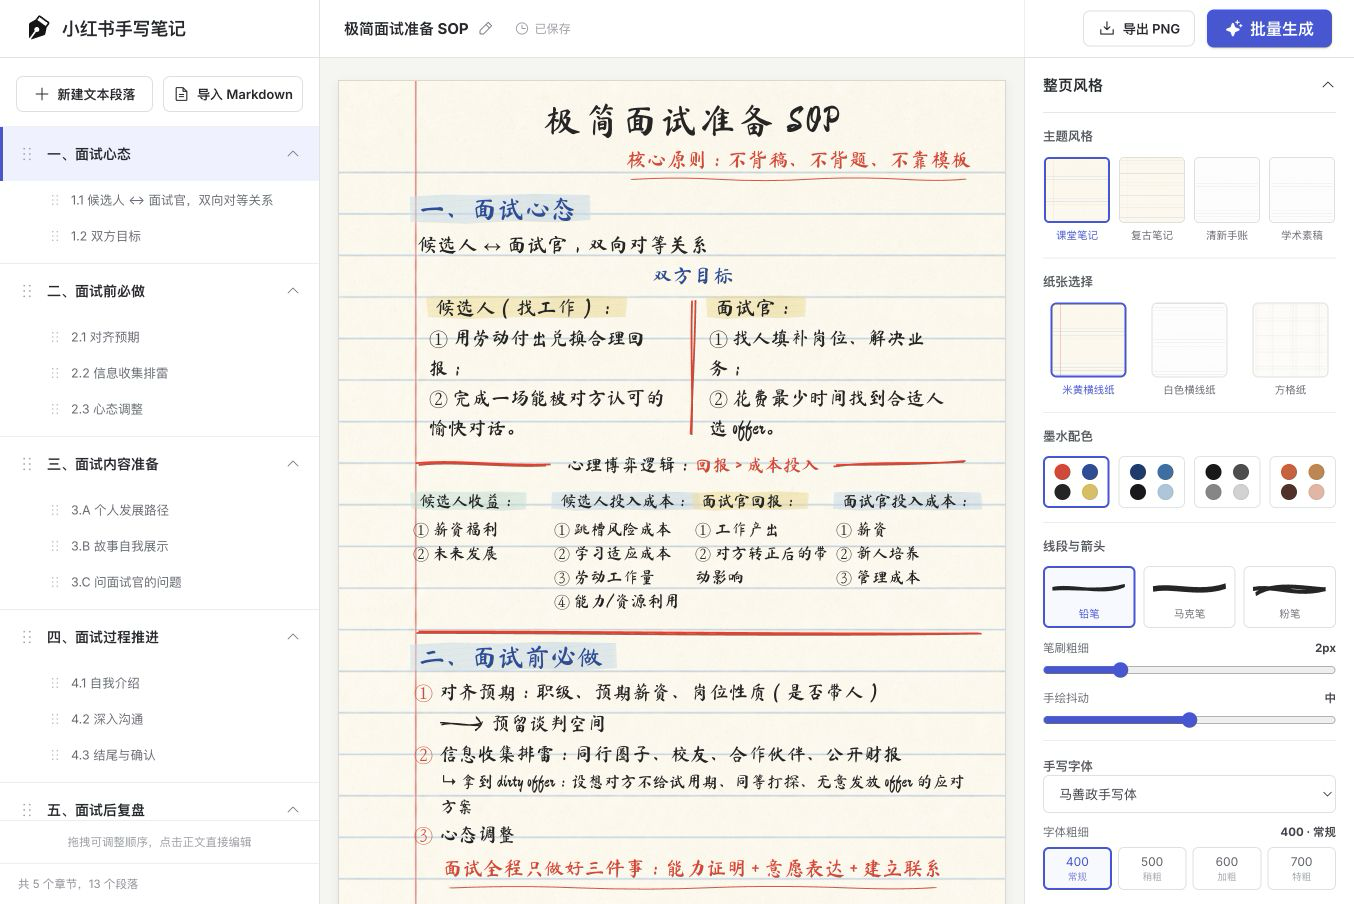
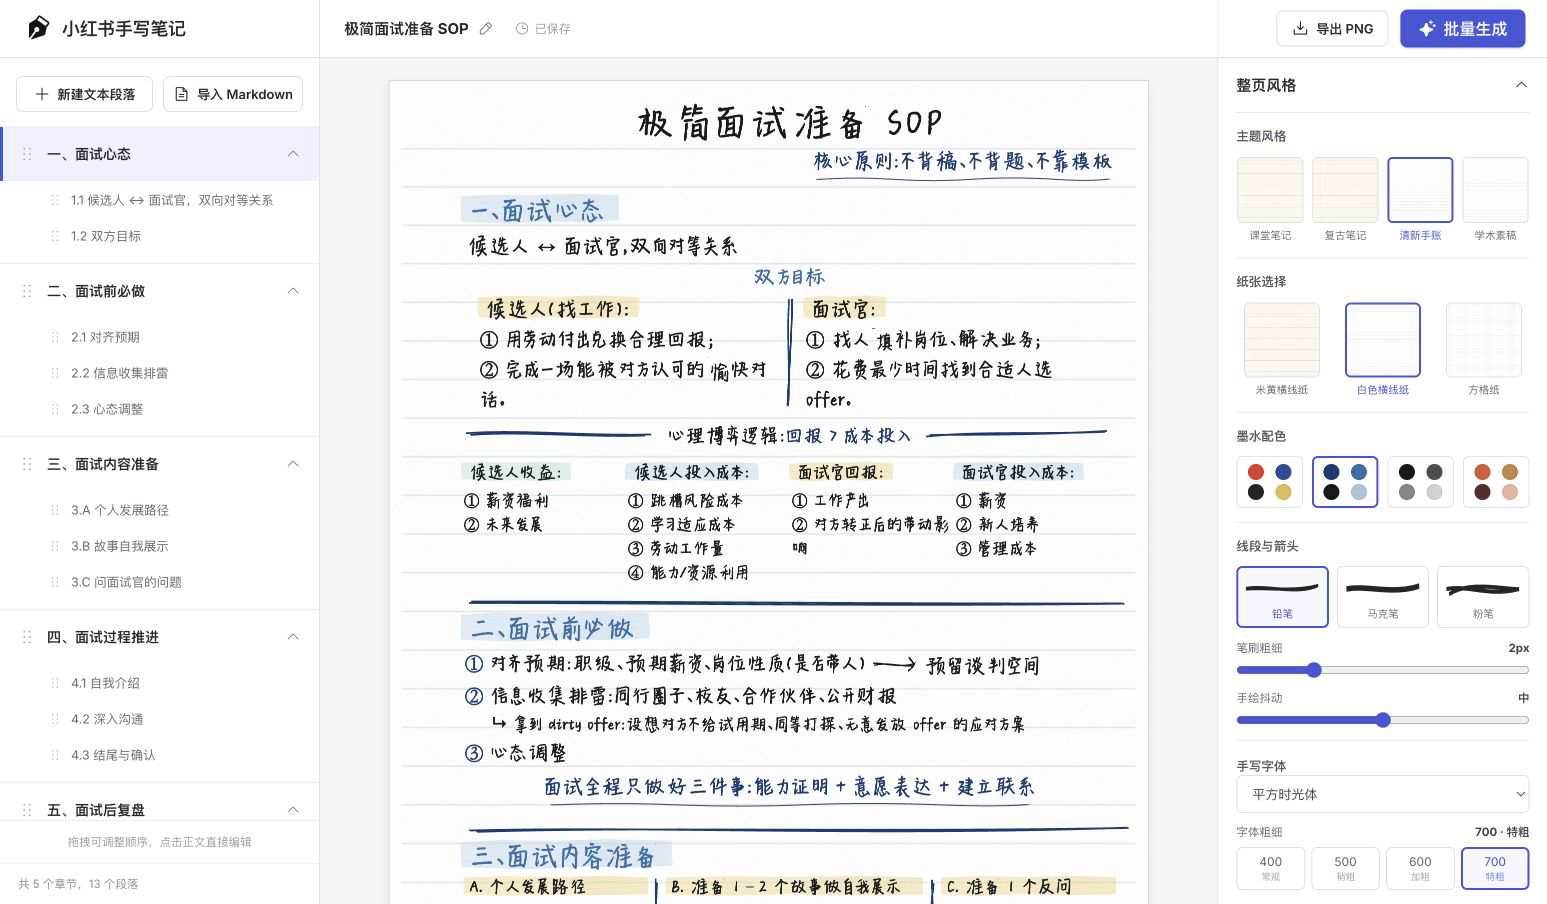
设定清新手账默认风格

diff --git a/src/App.jsx b/src/App.jsx
@@ -57,9 +57,9 @@ const initialSections = [
 ];
 
 const paperOptions = [
-  { id: "classic", label: "米黄横线纸", src: "/assets/paper-classic-lined.png" },
-  { id: "clean", label: "白色横线纸", src: "/assets/paper-clean-lined.png" },
-  { id: "grid", label: "方格纸", src: "/assets/paper-grid.png" },
+  { id: "classic", label: "米黄横线纸", src: "/assets/paper-classic-lined.png", backgroundColor: "#fffdf8" },
+  { id: "clean", label: "白色横线纸", src: "/assets/paper-clean-lined.png", backgroundColor: "#ffffff" },
+  { id: "grid", label: "方格纸", src: "/assets/paper-grid.png", backgroundColor: "#ffffff" },
 ];
 
 const palettes = [
@@ -99,6 +99,20 @@ const brushOptions = [
   { id: "marker", label: "马克笔", roughness: 0.7, bowing: 1.6, widthScale: 1.55, multiStroke: false },
   { id: "chalk", label: "粉笔", roughness: 2.45, bowing: 1.15, widthScale: 1.15, multiStroke: true },
 ];
+
+const DEFAULT_STYLE = {
+  paper: "clean",
+  palette: "blue",
+  font: "shiguang",
+  fontWeight: 700,
+  density: 68,
+  layout: "classroom",
+  strokeBrush: "pencil",
+  strokeWeight: 2,
+  strokeJitter: 2,
+};
+
+const imageDataUrlCache = new Map();
 
 function stableSeed(value) {
   return [...String(value)].reduce((sum, char) => ((sum * 31) + char.charCodeAt(0)) % 2147483647, 17);
@@ -224,6 +238,42 @@ function downloadBlob(blob, filename) {
   URL.revokeObjectURL(url);
 }
 
+function preloadImage(src) {
+  return new Promise((resolve, reject) => {
+    const image = new Image();
+    image.onload = resolve;
+    image.onerror = () => reject(new Error("纸张纹理加载失败，请稍后重试"));
+    image.src = src;
+    if (image.complete && image.naturalWidth > 0) resolve();
+  });
+}
+
+function blobToDataUrl(blob) {
+  return new Promise((resolve, reject) => {
+    const reader = new FileReader();
+    reader.onload = () => resolve(reader.result);
+    reader.onerror = () => reject(new Error("纸张纹理读取失败，请稍后重试"));
+    reader.readAsDataURL(blob);
+  });
+}
+
+async function getImageDataUrl(src) {
+  if (!imageDataUrlCache.has(src)) {
+    const request = fetch(src, { cache: "force-cache" })
+      .then((response) => {
+        if (!response.ok) throw new Error("纸张纹理加载失败，请稍后重试");
+        return response.blob();
+      })
+      .then(blobToDataUrl)
+      .catch((error) => {
+        imageDataUrlCache.delete(src);
+        throw error;
+      });
+    imageDataUrlCache.set(src, request);
+  }
+  return imageDataUrlCache.get(src);
+}
+
 function PaperPage({
   title,
   paper,
@@ -239,7 +289,7 @@ function PaperPage({
   setSelectedBlock,
   pageRef,
 }) {
-  const paperSrc = paperOptions.find((item) => item.id === paper)?.src ?? paperOptions[0].src;
+  const activePaper = paperOptions.find((item) => item.id === paper) ?? paperOptions[0];
   const ink = palettes.find((item) => item.id === palette)?.colors ?? palettes[0].colors;
   const activeFont = fontOptions.find((item) => item.id === font) ?? fontOptions[0];
   const activeFontWeight = fontWeightOptions.find((item) => item.value === fontWeight) ?? fontWeightOptions[0];
@@ -251,7 +301,8 @@ function PaperPage({
       className={`paper-page layout-${layout}`}
       onClick={() => setSelectedBlock("")}
       style={{
-        backgroundImage: `url(${paperSrc})`,
+        backgroundColor: activePaper.backgroundColor,
+        backgroundImage: `url(${activePaper.src})`,
         "--ink-red": ink[0],
         "--ink-blue": ink[1],
         "--ink-black": ink[2],
@@ -620,7 +671,7 @@ function StylePanel({
         <div className="control-label"><span>页边距</span><b>适中</b></div>
       </section>
       <button className="primary-wide" onClick={applyAll}><Sparkle size={18} weight="fill" />应用到全部页面</button>
-      <button className="reset-button" onClick={() => { setPaper("classic"); setPalette("classic"); setFont("ma"); setFontWeight(400); setDensity(68); setLayout("classroom"); setStrokeBrush("pencil"); setStrokeWeight(2); setStrokeJitter(2); }}>重置当前页样式</button>
+      <button className="reset-button" onClick={() => { setPaper(DEFAULT_STYLE.paper); setPalette(DEFAULT_STYLE.palette); setFont(DEFAULT_STYLE.font); setFontWeight(DEFAULT_STYLE.fontWeight); setDensity(DEFAULT_STYLE.density); setLayout(DEFAULT_STYLE.layout); setStrokeBrush(DEFAULT_STYLE.strokeBrush); setStrokeWeight(DEFAULT_STYLE.strokeWeight); setStrokeJitter(DEFAULT_STYLE.strokeJitter); }}>重置当前页样式</button>
     </aside>
   );
 }
@@ -653,15 +704,15 @@ export function App() {
   const [selectedSection, setSelectedSection] = useState("mindset");
   const [selectedBlock, setSelectedBlock] = useState("");
   const [title, setTitle] = useState("极简面试准备 SOP");
-  const [paper, setPaper] = useState("classic");
-  const [palette, setPalette] = useState("classic");
-  const [font, setFont] = useState("ma");
-  const [fontWeight, setFontWeight] = useState(400);
-  const [density, setDensity] = useState(68);
-  const [layout, setLayout] = useState("classroom");
-  const [strokeBrush, setStrokeBrush] = useState("pencil");
-  const [strokeWeight, setStrokeWeight] = useState(2);
-  const [strokeJitter, setStrokeJitter] = useState(2);
+  const [paper, setPaper] = useState(DEFAULT_STYLE.paper);
+  const [palette, setPalette] = useState(DEFAULT_STYLE.palette);
+  const [font, setFont] = useState(DEFAULT_STYLE.font);
+  const [fontWeight, setFontWeight] = useState(DEFAULT_STYLE.fontWeight);
+  const [density, setDensity] = useState(DEFAULT_STYLE.density);
+  const [layout, setLayout] = useState(DEFAULT_STYLE.layout);
+  const [strokeBrush, setStrokeBrush] = useState(DEFAULT_STYLE.strokeBrush);
+  const [strokeWeight, setStrokeWeight] = useState(DEFAULT_STYLE.strokeWeight);
+  const [strokeJitter, setStrokeJitter] = useState(DEFAULT_STYLE.strokeJitter);
   const [toast, setToast] = useState("");
   const [batchOpen, setBatchOpen] = useState(false);
   const [batchNames, setBatchNames] = useState(["面试 SOP", "求职复盘", "项目总结"]);
@@ -685,13 +736,25 @@ export function App() {
 
   const capturePage = async () => {
     if (!pageRef.current) throw new Error("页面尚未就绪");
+    const activePaper = paperOptions.find((item) => item.id === paper) ?? paperOptions[0];
+    const paperUrl = new URL(activePaper.src, window.location.href).href;
+    const [paperDataUrl] = await Promise.all([getImageDataUrl(paperUrl), document.fonts.ready]);
+    await preloadImage(paperDataUrl);
+    await new Promise((resolve) => requestAnimationFrame(() => requestAnimationFrame(resolve)));
     if (!fontCssRef.current) {
       fontCssRef.current = await getFontEmbedCSS(pageRef.current);
     }
     return toPng(pageRef.current, {
       cacheBust: true,
       pixelRatio: 2,
-      backgroundColor: "#fffdf8",
+      backgroundColor: activePaper.backgroundColor,
+      style: {
+        backgroundColor: activePaper.backgroundColor,
+        backgroundImage: `url("${paperDataUrl}")`,
+        backgroundSize: "100% 100%",
+        backgroundPosition: "center top",
+        backgroundRepeat: "no-repeat",
+      },
       fontEmbedCSS: fontCssRef.current,
       filter: (node) => !(node instanceof HTMLElement && node.classList.contains("editable-active")),
     });
